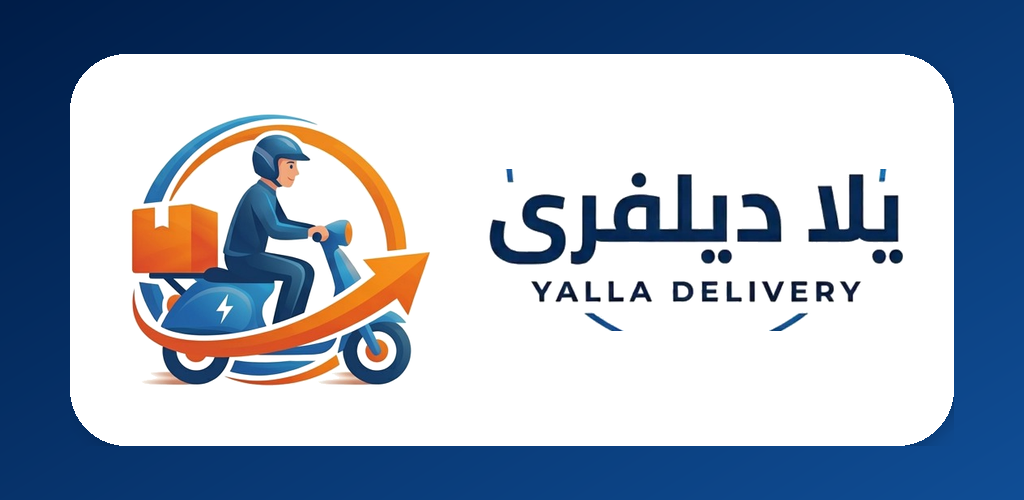
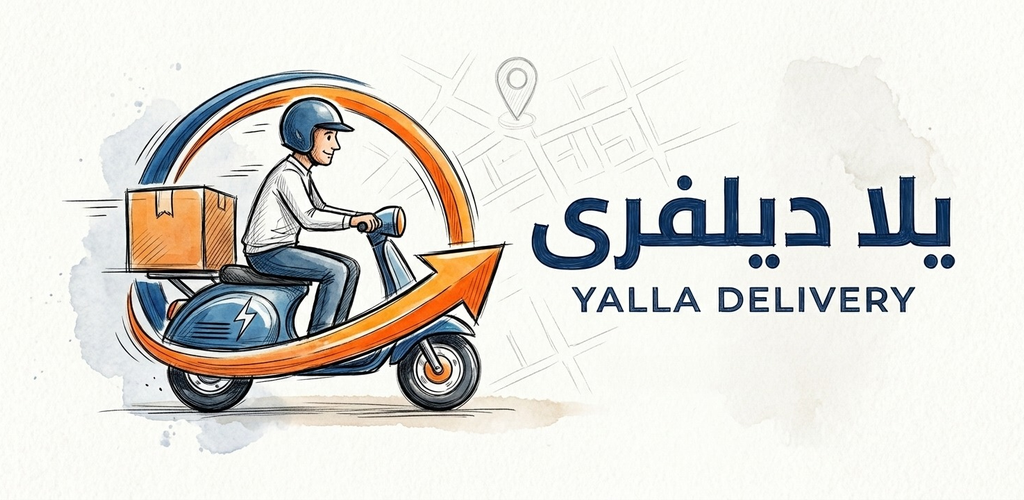
assets(brand): new feature graphic from updated source
Replace the feature graphic with the polished illustrated source the
user provided (emblem + wordmark + map background). Scaled to height 500
and center-cropped to exactly 1024x500 (only cream margin removed, no
distortion). Move the source into design/brand/feature_graphic_source.jpg.

Claude-Session: https://claude.ai/code/session_01Mi7n8DBY24H5DJZTzFxuKR

diff --git a/store/README.md b/store/README.md
@@ -27,4 +27,6 @@ Google: أطول ضلع ≤ ضعف الأقصر):
 السفلي — مع **الإبقاء على شريط تنقّل التطبيق الداخلي** — ثم وُسّع العرض قليلًا بلون
 خلفية التطبيق لضبط نسبة 2:1 دون قصّ أيّ محتوى للتطبيق.
 
-> `screenshots/raw/emblem_source.jpg` هو مصدر الرمز الذي بُنيت منه الأيقونة والرسم المميّز.
+> مصادر التصميم في `design/brand/`: `emblem_source.jpg`… (في `screenshots/raw/`)
+> بُنيت منه **الأيقونة**، و`feature_graphic_source.jpg` هو الرسم الأصلي الذي بُني منه
+> **الرسم المميّز** (قُصّ إلى 1024×500 بلا تشويه).
